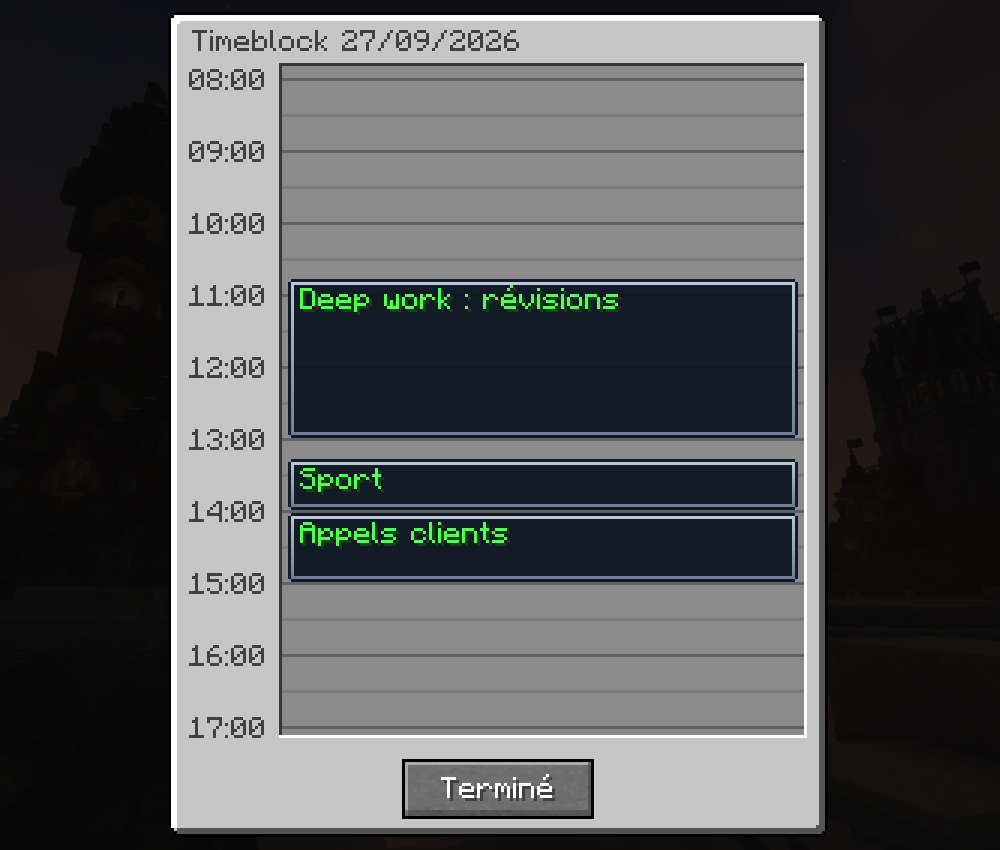
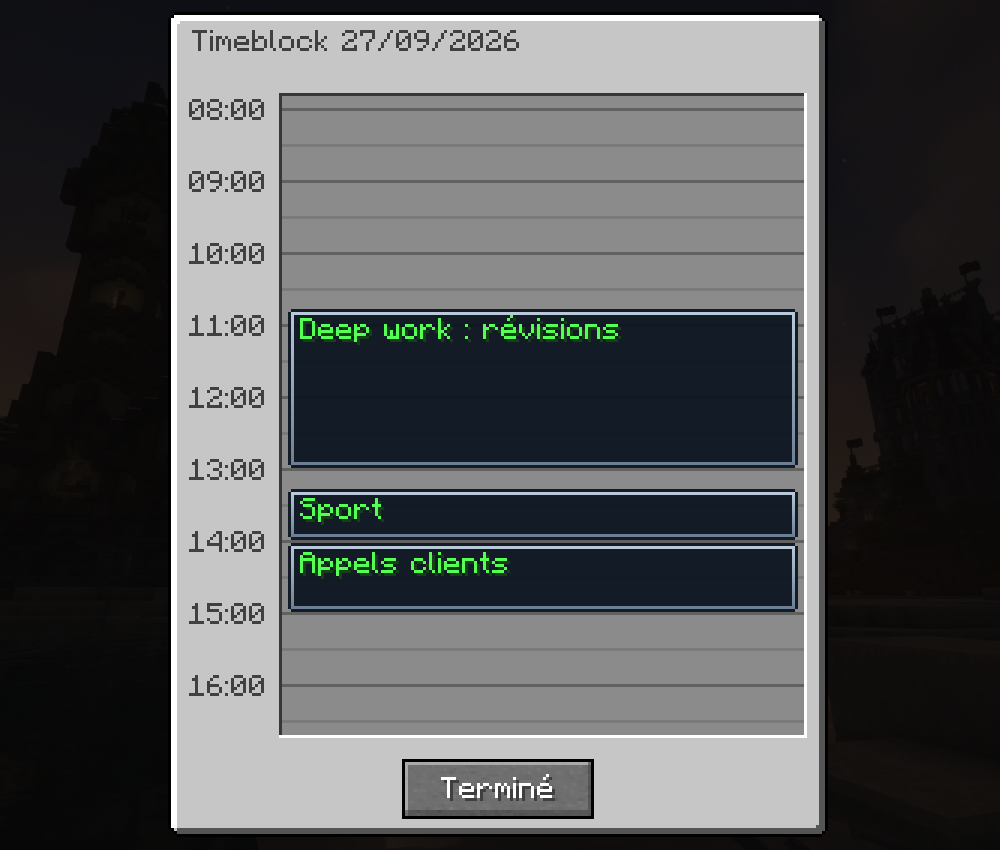
Timeblock : plus d'espace entre le titre et la journée
Claude-Session: https://claude.ai/code/session_019gCBZ2Dy19V3W7UiEquzyT

Changed region(s): [[0.186, 0.0612, 0.806, 0.4282], [0.186, 0.4282, 0.806, 0.7341], [0.186, 0.7647, 0.806, 0.8871]]

diff --git a/index.html b/index.html
@@ -1476,9 +1476,10 @@ function tbScale() {
 function renderTimeblock() {
   const S = tbScale();
   const { ctx, W, H } = prepareScreen(timeblockCanvas, S);
-  const pw = 220, ph = Math.min(H - 8, 18 + TB_CONTENT + 36);
+  const TB_TOP = 28;   // hauteur du bandeau de titre au-dessus de la journée
+  const pw = 220, ph = Math.min(H - 8, TB_TOP + TB_CONTENT + 36);
   const px = Math.floor((W - pw) / 2), py = Math.max(4, Math.floor((H - ph) / 2));
-  const grid = { x: px + 38, y: py + 18, w: pw - 38 - 8, h: ph - 18 - 34 };
+  const grid = { x: px + 38, y: py + TB_TOP, w: pw - 38 - 8, h: ph - TB_TOP - 34 };
   const maxScroll = Math.max(0, TB_CONTENT - grid.h);
   if (tb.scroll == null) {   // premier affichage : on se place sur le premier bloc (ou 8h)
     const first = Math.min(8 * 60, ...tbBlocks().map(b => b.debut));
